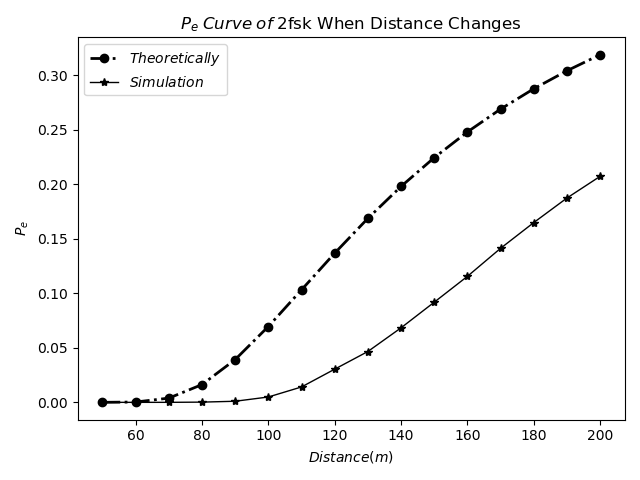
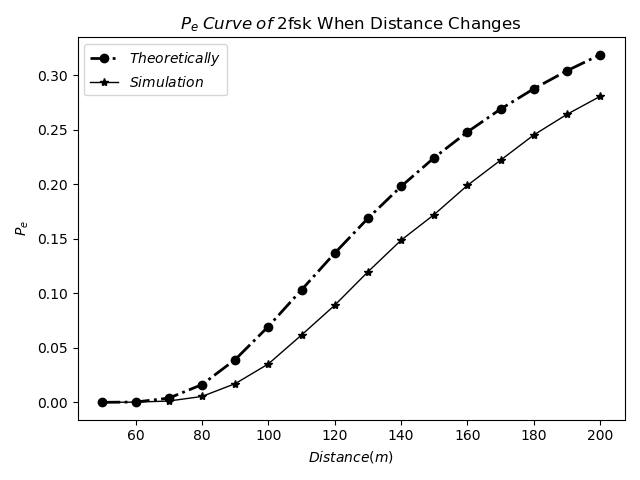
Final Commit QwQ

diff --git a/CSModel/CommunicationModel.py b/CSModel/CommunicationModel.py
@@ -37,7 +37,8 @@ class Communication:
         self.config['K'] = self.config['T'] + 273.15  # Kelvin temperature scale
         self.config['PR_s'] = 0  #
         self.config['PR_n'] = 0
-        self.config['noise'] = []  # awgn noise
+        self.config['noise'] = []  # Bandpass Additive Gaussian noise
+        self.config['noise2'] = []  # Bandpass Additive Gaussian noise, for BFSK ONLY!
         self.config['__clist1'] = []  # Carrier Signal 1
         self.config['__clist2'] = []  # Carrier Signal 2, ONLY in '2fsk'
         self.config['modulated'] = []  # Modulated Signal
@@ -72,22 +73,11 @@ class Communication:
 
     def __awgn__(self):
         __k = 1.38e-23  # J/K
-        # Tip: PR_n is the power of noise which is after BPF with band: 2*f_B!
+        # Tip: PR_n is the power of noise which is AFTER BPF with band: 2*f_B!
         self.config['PR_n'] = 2 * self.config['B'] * self.config['K'] * __k
         np.random.seed(self.seed)
-        # Normalized cut-off frequency. Do NOT forget the '* 2'
-        __corner1 = np.array([self.config['f_c1'] - self.config['f_B'], self.config['f_c1'] + self.config['f_B']]) \
-                    / (self.fs * self.config['f_B']) * 2
-        # 6th order IIR LPF named Butterworth for 'f_c1' of Carrier1
-        __b1, __a1 = signal.butter(6, __corner1, 'bandpass')
-        # White noise is not what we want.
-        self.config['noise'] = np.random.randn(len(self.config['modulated']))
-        # We want Band limited Gaussian noise!
-        self.config['noise'] = signal.filtfilt(__b1, __a1, self.config['noise'])
-        # Make sure the noise power is equivalent to self.config['PR_n'], which is calculated after BPF.
-        self.config['noise'] = self.config['noise'] / np.sqrt(np.var(self.config['noise'])) \
-                               * np.sqrt(self.config['PR_n'])
-        # print(np.var(self.config['noise']), self.config['PR_n'])
+        # White noise is not what we want eventually. This is for ploting here.
+        self.config['noise'] = np.random.randn(len(self.config['modulated'])) * np.sqrt(self.config['PR_n'])
         self.config['received'] = self.config['received_s'] + self.config['noise']
 
     def modulation(self, baseband):
@@ -119,21 +109,33 @@ class Communication:
         # 6th order IIR LPF named Butterworth for 'f_c1' of Carrier1
         __b1, __a1 = signal.butter(6, __corner1, 'bandpass')  # Just ignore the 'Warning' in pycharm
         self.config['demodulated'] = signal.filtfilt(__b1, __a1, self.config['received_s'])
-        # TODO: Increase noise if necessary, e.g. multiply by 1.16(BPSK) or 1.65(BFSK)
-        self.config['demodulated'] = self.config['demodulated'] + self.config['noise'] * 1
+        # We want Band limited Gaussian noise!
+        self.config['noise'] = signal.filtfilt(__b1, __a1, self.config['noise'])
+        # Make sure the noise power is equivalent to self.config['PR_n'], which is calculated after BPF.
+        # TODO: Increase noise if necessary, e.g. multiply by 1.16(BPSK) or 1.22(BFSK)
+        self.config['noise'] = self.config['noise'] / np.sqrt(np.var(self.config['noise'])) \
+                               * np.sqrt(self.config['PR_n']) * 1
+        self.config['demodulated'] = self.config['demodulated'] + self.config['noise']
         self.config['demodulated'] = self.config['demodulated'] * self.config['__clist1']  # Multiply by carrier
         __corner = 2 * 1 / Communication.fs
         __b, __a = signal.butter(10, __corner, 'lowpass')  # LPF
         self.config['demodulated'] = signal.filtfilt(__b, __a, self.config['demodulated'])
         # Timing sampling pulse for judgment
         sampling_seq = np.array([self.fs * i for i in range(len(self.random_list))]) + int(self.fs / 2)
-        # TODO 2: Change 'int(self.fs / 2)', if  necessary.
+        # TODO: Change 'int(self.fs / 2)', if  necessary.
         if self.config['Modulation'] == '2fsk':
+            # White noise
+            self.config['noise2'] = np.random.randn(len(self.config['modulated']))
             __corner2 = np.array([self.config['f_c2'] - self.config['f_B'], self.config['f_c2'] +
                                   self.config['f_B']]) / (self.fs * self.config['f_B']) * 2
             __b2, __a2 = signal.butter(6, __corner2, 'bandpass')
-            # print(__corner1, __corner2)
-            self.config['demodulated2'] = signal.filtfilt(__b2, __a2, self.config['received'])
+            self.config['demodulated2'] = signal.filtfilt(__b2, __a2, self.config['received_s'])
+            self.config['noise2'] = signal.filtfilt(__b2, __a2, self.config['noise2'])
+            # Make sure the noise power is equivalent to self.config['PR_n'], which is calculated after BPF.
+            # TODO: Increase noise if necessary, e.g. multiply by 1.16(BPSK) or 1.22(BFSK)
+            self.config['noise2'] = self.config['noise2'] / np.sqrt(np.var(self.config['noise2'])) \
+                               * np.sqrt(self.config['PR_n']) * 1
+            self.config['demodulated2'] = self.config['demodulated2'] + self.config['noise2']
             self.config['demodulated2'] = self.config['demodulated2'] * self.config['__clist2']
             self.config['demodulated2'] = signal.filtfilt(__b, __a, self.config['demodulated2'])
             self.demodulated_list = [1 if self.config['demodulated2'][sampling_seq[i]] >
@@ -212,7 +214,7 @@ def BER_curve(name, unit, x, SNR, Pe, figure_num=1):
     plt.figure(num=figure_num)
     plt.xlabel(r"$Distance(m)$" if unit == 'm' else r"$Temperature(^\circ C)$")
     plt.ylabel(r"$P_e$")
-    # plt.ylim((-0.01, 0.15))
+    # plt.ylim((-0.01, 0.25))
     plt.title(r'$P_e\;Curve\;of\;${name_} When {var} Changes'
               .format(name_=name, var=('Distance' if unit == 'm' else 'Temperature')))
 

diff --git a/TEST.py b/TEST.py
@@ -50,3 +50,5 @@ demodulation_seq, demodulation_seq2 = bpsk.demodulation()
 # cm.showsignal(bpsk.config['t'], demodulation_seq, bpsk.config['f_B'], figure_num=7,
 #               tilte='Demodulated Signal')
 
+cm.showsignal(bpsk.config['t'], bpsk.config['noise'], bpsk.config['f_B'], figure_num=1, max_frequency=8,
+               tilte='noise')
